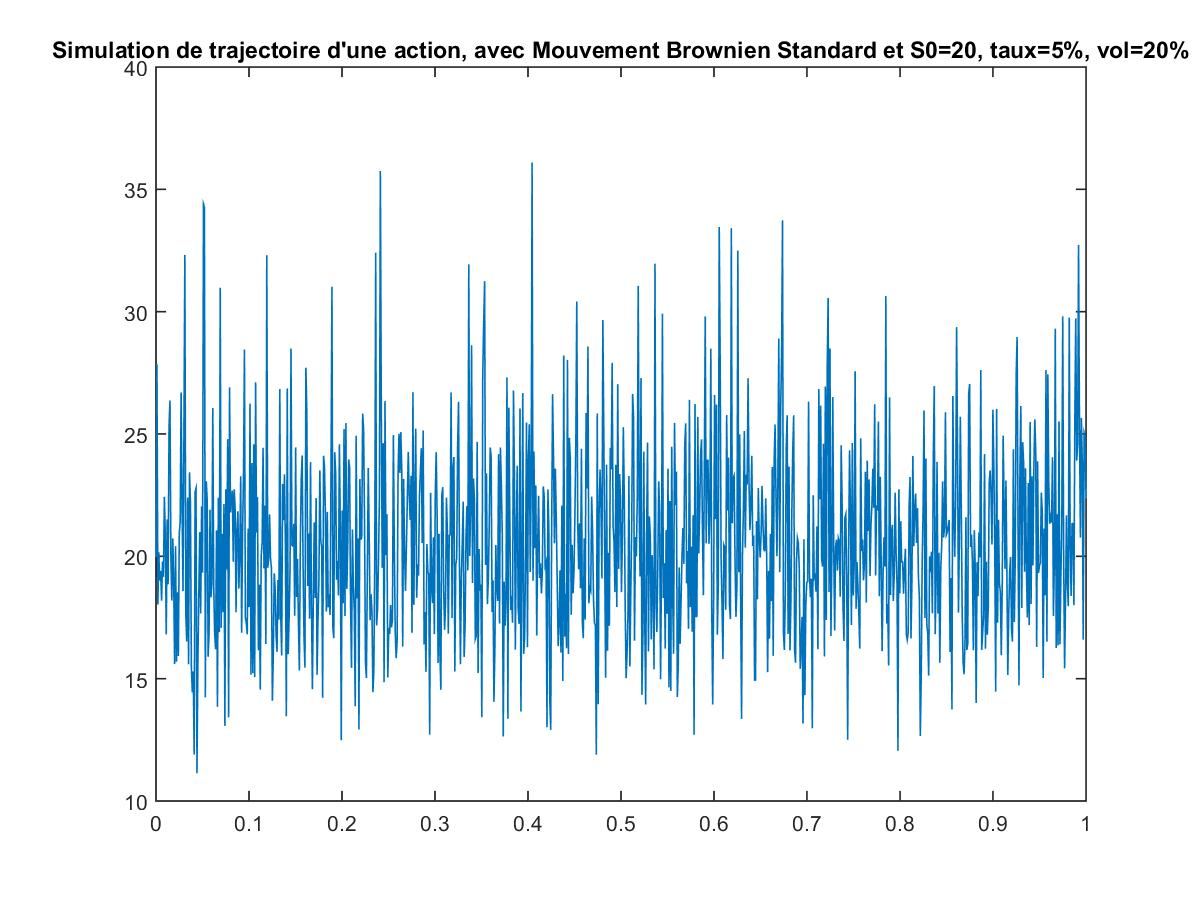
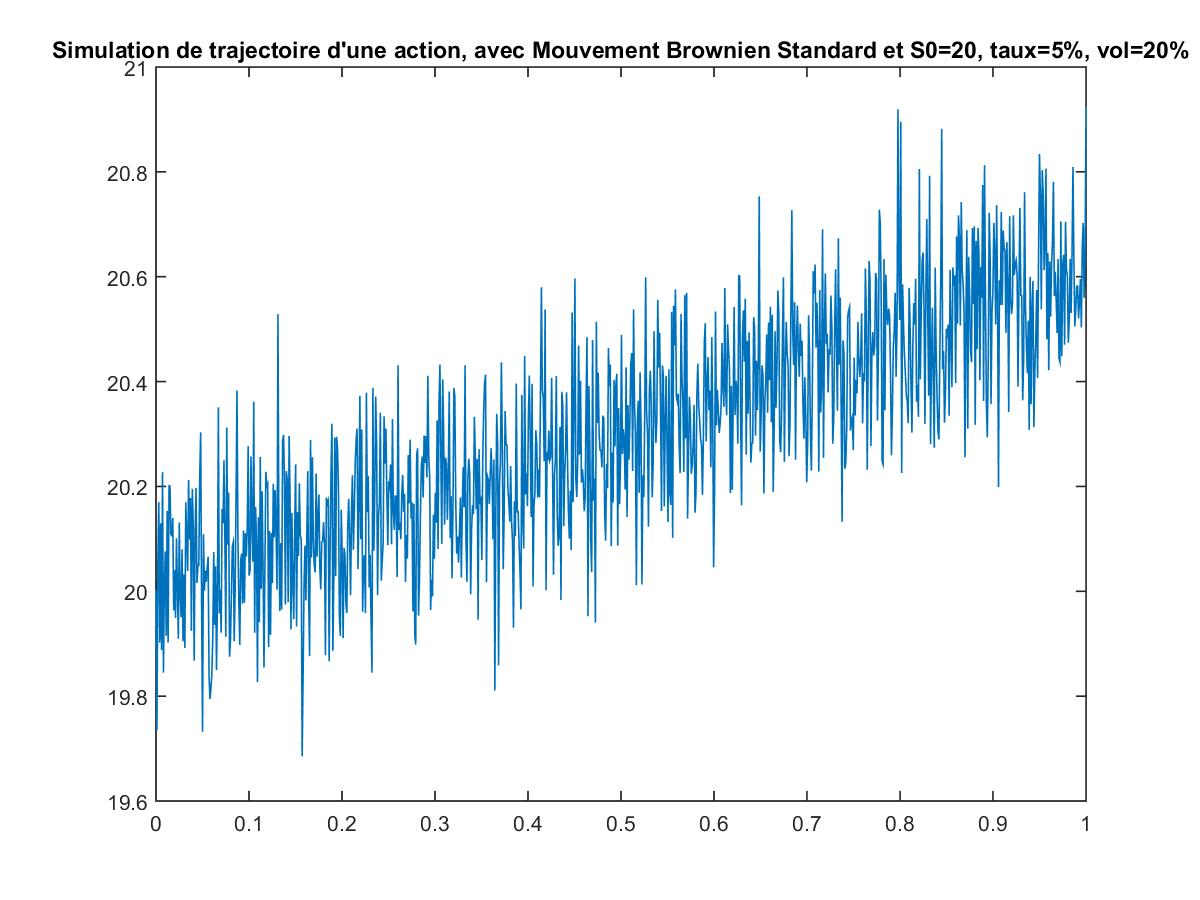
change

diff --git a/St_mb.m b/St_mb.m
@@ -32,7 +32,7 @@ function [S]=St_mb(S0,R,sigma)
     S = zeros(n,1);
     S(1) = S0;
     for t = 2:n
-        S(t)=S(1)*exp(sigma*W(t)+R*t*(T/n)-(sigma^2)/2*(t*(T/n)));
+        S(t)=S(1)*exp(sigma*W(t)*sqrt((T/n))+R*t*(T/n)-(sigma^2)/2*(t*(T/n)));
     end
 end
 
